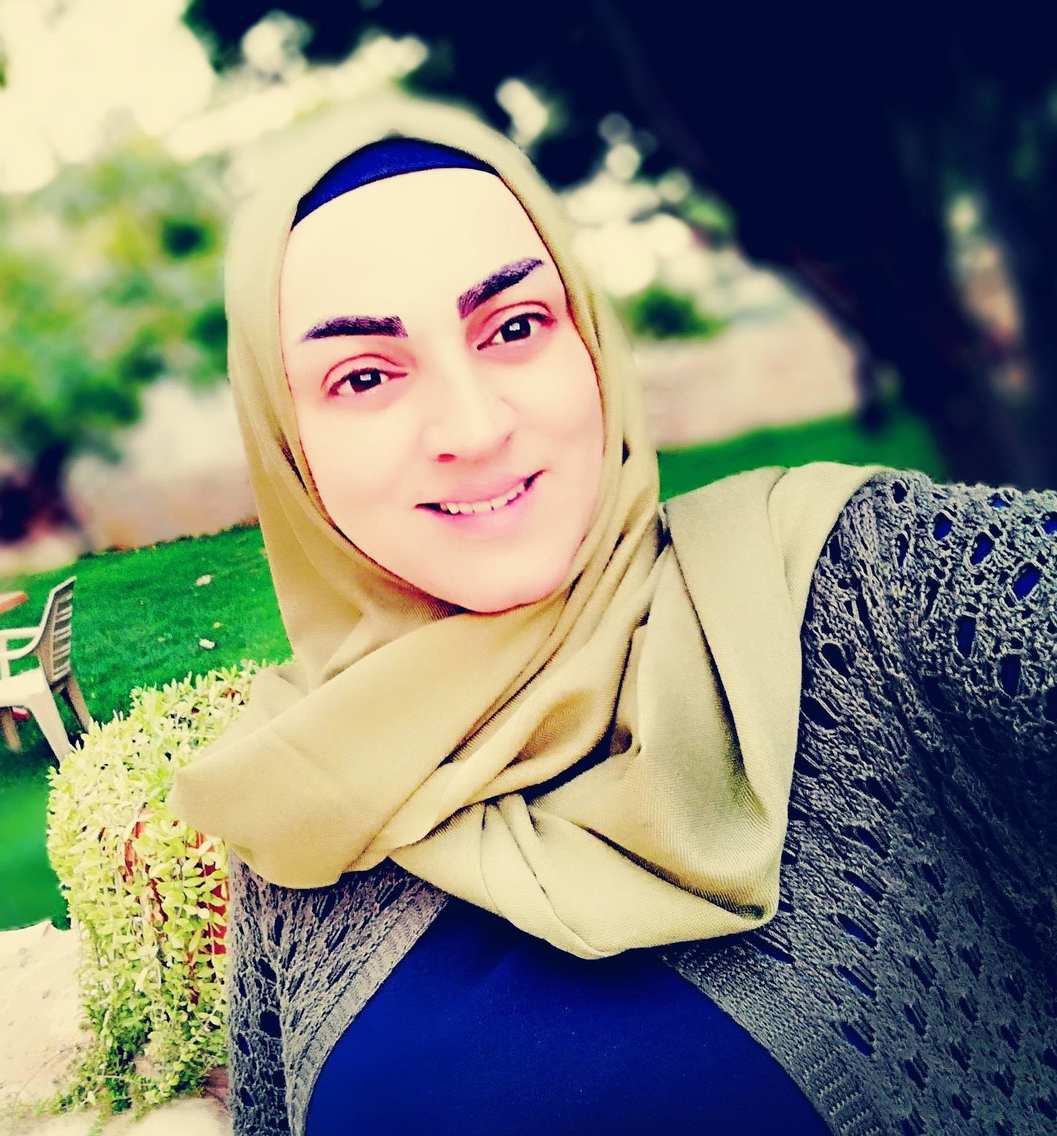
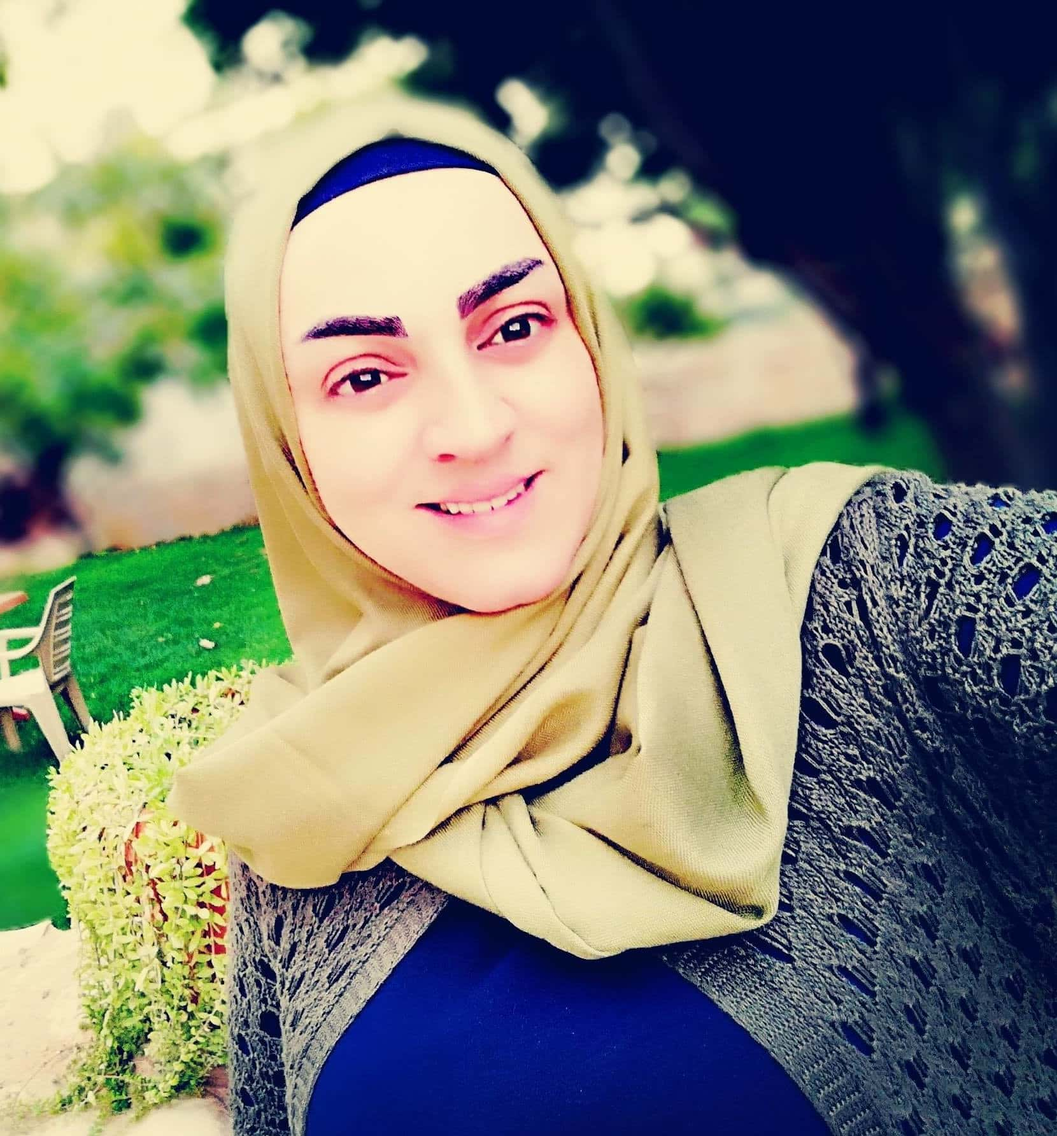
optimize images & pages

diff --git a/contact.html b/contact.html
@@ -5,7 +5,6 @@
     <meta name="viewport" content="width=device-width, initial-scale=1.0">
     <title>Kayrawan Quiz</title>
     <link rel="stylesheet" href="style.css">
-    <link rel="stylesheet" href="style2.css">
     <link rel="stylesheet" href="https://stackpath.bootstrapcdn.com/font-awesome/4.7.0/css/font-awesome.min.css">
 
 </head>
@@ -29,7 +28,7 @@
                 <a href="contact.html">
                 <i class="fa fa-mobile fa-3x"></i>
                     <span>
-                        اتصل بنا
+                        تواصل معنا
                     </span>
                 </a>
             </li>
@@ -47,11 +46,11 @@
     <main>
         <div id="image">
             <img src="logo.jpg" class="img"  height="120" />
-            <h1 style="text-align: center;">اتصل بنا</h1>
+            <h1 style="text-align: center;">تواصل معنا</h1>
         </div>
 
         <div class="contact">
-            <h2 style="text-align: center; margin: 1em;">يمكنك الاتصال بنا على الأرقام التالية </h2>
+            <h2 style="text-align: center; margin: 1em;">يمكنك التواصل معنا على الأرقام التالية </h2>
             <h3 style="text-align: center; margin: .2em;"> 78-837991 </h3>
             <h3 style="text-align: center; margin: .2em;"> 81-613269 </h3>
             

diff --git a/index.html b/index.html
@@ -3,8 +3,8 @@
 <head>
     <meta charset="UTF-8">
     <meta name="viewport" content="width=device-width, initial-scale=1.0">
+    <meta name="description" content="معهد القيروان الفني - أحد أهم وأفضل مراكز التعليم والتدريب المهني في المنطقة، فهو يوفر مجموعة واسعة من التخصصات الفنية، جنبا إلى جنب مع برامج تدريبية خاصة، وذلك بفضل تعليم ذا جودة عالية وتفانِ في العمل من قبل الموظفين الإداريين/المعلمين.">
     <link rel="stylesheet" href="style.css">
-    <link rel="stylesheet" href="style2.css">
     <title>Kayrawan Quiz</title>
     <link rel="stylesheet" href="https://stackpath.bootstrapcdn.com/font-awesome/4.7.0/css/font-awesome.min.css">
             <!-- The core Firebase JS SDK is always required and must be listed first -->
@@ -58,7 +58,7 @@
                 <a href="contact.html">
                 <i class="fa fa-mobile fa-3x"></i>
                     <span>
-                        اتصل بنا
+                        تواصل معنا
                     </span>
                 </a>
             </li>

diff --git a/teacher.html b/teacher.html
@@ -6,7 +6,6 @@
     <title>Teacher Portal</title>
     <link rel="stylesheet" href="https://cdn.jsdelivr.net/npm/bootstrap@4.5.3/dist/css/bootstrap.min.css" integrity="sha384-TX8t27EcRE3e/ihU7zmQxVncDAy5uIKz4rEkgIXeMed4M0jlfIDPvg6uqKI2xXr2" crossorigin="anonymous">
     <link rel="stylesheet" href="style.css">
-    <link rel="stylesheet" href="style2.css">
     <link rel="stylesheet" href="https://stackpath.bootstrapcdn.com/font-awesome/4.7.0/css/font-awesome.min.css">
 
 
@@ -100,7 +99,7 @@
                 <a href="contact.html">
                 <i class="fa fa-mobile fa-3x"></i>
                     <span>
-                        اتصل بنا
+                        تواصل معنا
                     </span>
                 </a>
             </li>

diff --git a/pages/bt-social.html b/pages/bt-social.html
@@ -4,7 +4,6 @@
     <meta charset="UTF-8">
     <meta name="viewport" content="width=device-width, initial-scale=1.0">
     <link rel="stylesheet" href="../style.css">
-    <link rel="stylesheet" href="../style2.css">
     <title>Kayrawan Quiz</title>
     <link rel="stylesheet" href="https://stackpath.bootstrapcdn.com/font-awesome/4.7.0/css/font-awesome.min.css">
 
@@ -58,7 +57,7 @@
                 <a href="../contact.html">
                 <i class="fa fa-mobile fa-3x"></i>
                     <span>
-                        اتصل بنا
+                        تواصل معنا
                     </span>
                 </a>
             </li>

diff --git a/pages/bt.html b/pages/bt.html
@@ -4,7 +4,6 @@
     <meta charset="UTF-8">
     <meta name="viewport" content="width=device-width, initial-scale=1.0">
     <link rel="stylesheet" href="../style.css">
-    <link rel="stylesheet" href="../style2.css">
     <title>Kayrawan Quiz</title>
     <link rel="stylesheet" href="https://stackpath.bootstrapcdn.com/font-awesome/4.7.0/css/font-awesome.min.css">
 
@@ -29,7 +28,7 @@
                 <a href="../contact.html">
                 <i class="fa fa-mobile fa-3x"></i>
                     <span>
-                        اتصل بنا
+                        تواصل معنا
                     </span>
                 </a>
             </li>

diff --git a/pages/bt1-nurse.html b/pages/bt1-nurse.html
@@ -4,7 +4,6 @@
     <meta charset="UTF-8">
     <meta name="viewport" content="width=device-width, initial-scale=1.0">
     <link rel="stylesheet" href="../style.css">
-    <link rel="stylesheet" href="../style2.css">
     <title>Kayrawan Quiz</title>
     <link rel="stylesheet" href="https://stackpath.bootstrapcdn.com/font-awesome/4.7.0/css/font-awesome.min.css">
 
@@ -59,7 +58,7 @@
                 <a href="../contact.html">
                 <i class="fa fa-mobile fa-3x"></i>
                     <span>
-                        اتصل بنا
+                        تواصل معنا
                     </span>
                 </a>
             </li>

diff --git a/pages/bt3-nurse.html b/pages/bt3-nurse.html
@@ -4,7 +4,6 @@
     <meta charset="UTF-8">
     <meta name="viewport" content="width=device-width, initial-scale=1.0">
     <link rel="stylesheet" href="../style.css">
-    <link rel="stylesheet" href="../style2.css">
     <title>Kayrawan Quiz</title>
     <link rel="stylesheet" href="https://stackpath.bootstrapcdn.com/font-awesome/4.7.0/css/font-awesome.min.css">
 
@@ -59,7 +58,7 @@
                 <a href="../contact.html">
                 <i class="fa fa-mobile fa-3x"></i>
                     <span>
-                        اتصل بنا
+                        تواصل معنا
                     </span>
                 </a>
             </li>

diff --git a/pages/ts-adab.html b/pages/ts-adab.html
@@ -4,7 +4,6 @@
     <meta charset="UTF-8">
     <meta name="viewport" content="width=device-width, initial-scale=1.0">
     <link rel="stylesheet" href="../style.css">
-    <link rel="stylesheet" href="../style2.css">
     <title>Kayrawan Quiz</title>
     <link rel="stylesheet" href="https://stackpath.bootstrapcdn.com/font-awesome/4.7.0/css/font-awesome.min.css">
 
@@ -59,7 +58,7 @@
                 <a href="../contact.html">
                 <i class="fa fa-mobile fa-3x"></i>
                     <span>
-                        اتصل بنا
+                        تواصل معنا
                     </span>
                 </a>
             </li>

diff --git a/pages/ts-marketing.html b/pages/ts-marketing.html
@@ -4,7 +4,6 @@
     <meta charset="UTF-8">
     <meta name="viewport" content="width=device-width, initial-scale=1.0">
     <link rel="stylesheet" href="../style.css">
-    <link rel="stylesheet" href="../style2.css">
     <title>Kayrawan Quiz</title>
     <link rel="stylesheet" href="https://stackpath.bootstrapcdn.com/font-awesome/4.7.0/css/font-awesome.min.css">
 
@@ -59,7 +58,7 @@
                 <a href="../contact.html">
                 <i class="fa fa-mobile fa-3x"></i>
                     <span>
-                        اتصل بنا
+                        تواصل معنا
                     </span>
                 </a>
             </li>

diff --git a/pages/ts-nurse.html b/pages/ts-nurse.html
@@ -4,7 +4,6 @@
     <meta charset="UTF-8">
     <meta name="viewport" content="width=device-width, initial-scale=1.0">
     <link rel="stylesheet" href="../style.css">
-    <link rel="stylesheet" href="../style2.css">
     <title>Kayrawan Quiz</title>
     <link rel="stylesheet" href="https://stackpath.bootstrapcdn.com/font-awesome/4.7.0/css/font-awesome.min.css">
 
@@ -59,7 +58,7 @@
                 <a href="../contact.html">
                 <i class="fa fa-mobile fa-3x"></i>
                     <span>
-                        اتصل بنا
+                        تواصل معنا
                     </span>
                 </a>
             </li>

diff --git a/pages/ts-pre-tarikh.html b/pages/ts-pre-tarikh.html
@@ -4,7 +4,6 @@
     <meta charset="UTF-8">
     <meta name="viewport" content="width=device-width, initial-scale=1.0">
     <link rel="stylesheet" href="../style.css">
-    <link rel="stylesheet" href="../style2.css">
     <title>Kayrawan Quiz</title>
     <link rel="stylesheet" href="https://stackpath.bootstrapcdn.com/font-awesome/4.7.0/css/font-awesome.min.css">
 
@@ -59,7 +58,7 @@
                 <a href="../contact.html">
                 <i class="fa fa-mobile fa-3x"></i>
                     <span>
-                        اتصل بنا
+                        تواصل معنا
                     </span>
                 </a>
             </li>

diff --git a/pages/ts-pre-teach.html b/pages/ts-pre-teach.html
@@ -4,7 +4,6 @@
     <meta charset="UTF-8">
     <meta name="viewport" content="width=device-width, initial-scale=1.0">
     <link rel="stylesheet" href="../style.css">
-    <link rel="stylesheet" href="../style2.css">
     <title>Kayrawan Quiz</title>
     <link rel="stylesheet" href="https://stackpath.bootstrapcdn.com/font-awesome/4.7.0/css/font-awesome.min.css">
 
@@ -59,7 +58,7 @@
                 <a href="../contact.html">
                 <i class="fa fa-mobile fa-3x"></i>
                     <span>
-                        اتصل بنا
+                        تواصل معنا
                     </span>
                 </a>
             </li>
